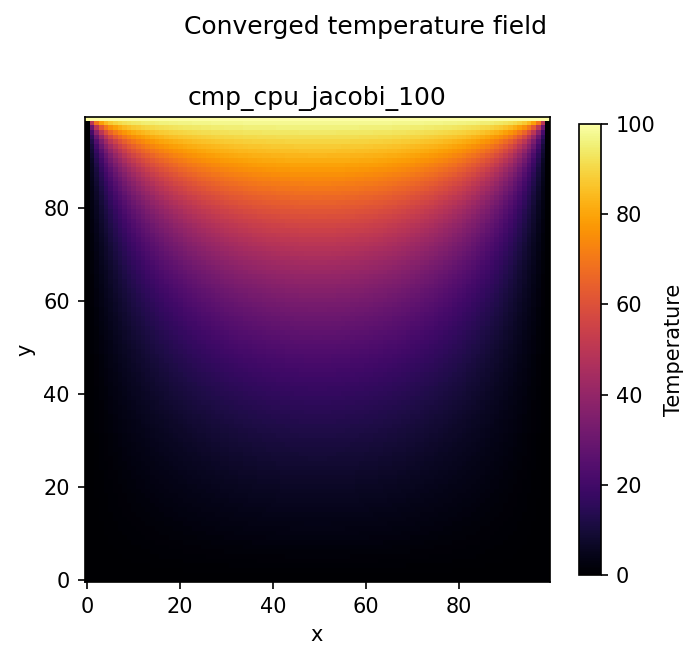
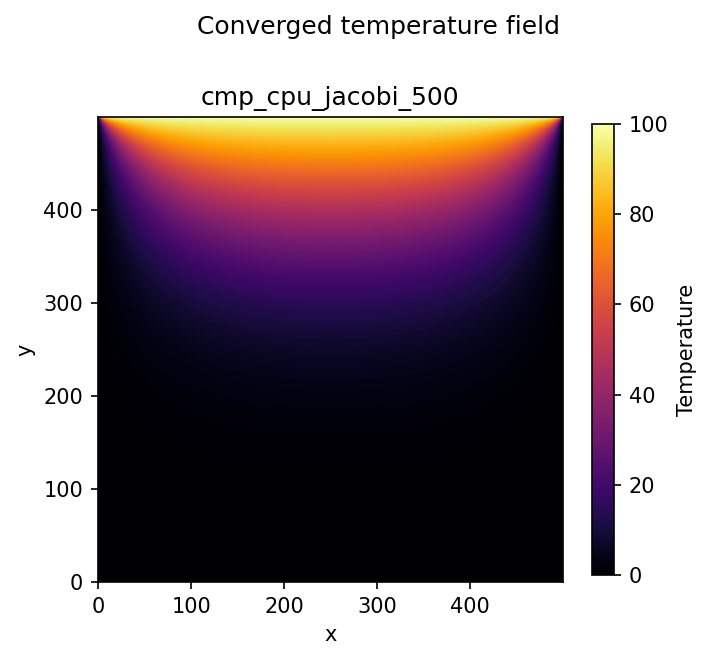
docs: complete README for feat/cuda-tdma
97 tests, 500x500 six-variant residency study with the honest GPU-TDMA
finding, six-panel field parity, refreshed scaling table (O(N^4)),
roadmap 5a/5b. Figures regenerated from a single coherent run; reproduce
steps corrected for the 500-grid thermals.

diff --git a/python/scripts/plot_walltime.py b/python/scripts/plot_walltime.py
@@ -46,17 +46,35 @@ def plot_scaling(df, out, title):
     print(df.pivot_table(index="grid_nx", columns="solver",
                          values="wall_time_ms").to_string(float_format=lambda v: f"{v:.1f}"))
 
+def variant_color(v):
+    # Hue = algorithm, shade = residency — read from the name so the plotter
+    # stays data-driven (no hardcoded variant list). "novram" is checked
+    # before "vram" since it contains it as a substring.
+    name = v.lower()
+    cmap = (plt.cm.Blues if "jacobi" in name
+            else plt.cm.Oranges if "tdma" in name
+            else plt.cm.Greys)
+    shade = 0.65 if "novram" in name else 0.85 if "vram" in name else 0.48
+    return cmap(shade)
+
+def variant_sort_key(v):
+    name = v.lower()
+    algo  = 0 if "jacobi" in name else 1                          # Jacobi block, then TDMA
+    resid = 1 if "novram" in name else 2 if "vram" in name else 0  # CPU < NoVram < Vram
+    return (algo, resid)
 
 def plot_comparison(df, out, title):
     grids = sorted(df["grid_n"].unique())
-    variants = list(dict.fromkeys(df["variant"]))   # preserve first-seen order
+    variants = sorted(dict.fromkeys(df["variant"]), key=variant_sort_key)
+    #variants = list(dict.fromkeys(df["variant"]))   # preserve first-seen order
     x = np.arange(len(grids))
     w = 0.8 / max(len(variants), 1)
     fig, ax = plt.subplots(figsize=(9.5, 5.5))
+
     for i, v in enumerate(variants):
         vals = [df[(df["variant"] == v) & (df["grid_n"] == g)]["wall_time_ms"].mean()
                 for g in grids]
-        bars = ax.bar(x + i * w - 0.4 + w / 2, vals, w, label=v)
+        bars = ax.bar(x + i * w - 0.4 + w / 2, vals, w, label=v, color=variant_color(v)) 
         for b, val in zip(bars, vals):
             if val == val:  # skip NaN
                 ax.text(b.get_x() + b.get_width() / 2, val, f"{val:.0f}",

diff --git a/README.md b/README.md
@@ -1,5 +1,5 @@
 [![physi-sim CI](https://github.com/william4812/physi-sim/actions/workflows/ci.yml/badge.svg)](https://github.com/william4812/physi-sim/actions/workflows/ci.yml)
-![Tests](https://img.shields.io/badge/tests-92%20passing-brightgreen)
+![Tests](https://img.shields.io/badge/tests-97%20passing-brightgreen)
 ![Language](https://img.shields.io/badge/language-C%2B%2B20%20%7C%20Fortran%2090%20%7C%20CUDA%2013.2%20%7C%20Python%203-blue)
 
 # physi-sim — HPC Thermal Solver
@@ -9,9 +9,12 @@ GTX 1650 (sm_75, 16 SMs) · TDD · CI/CD · CMakePresets
 
 Implements a modular `ISolver` interface with FSM-managed lifecycle, concurrent
 dispatch, and a Fortran physics kernel pipeline. GPU acceleration via CUDA Jacobi
-with per-step residual history and a `ProfilingHarness`. With buffers kept
-**resident in VRAM** across the solve loop, the GPU solver now runs **~2.5×
-faster than the CPU** at 100×100 — see §6.
+and CUDA TDMA solvers, each with residual history and a `ProfilingHarness`. Kept
+**resident in VRAM** across the solve loop, the GPU Jacobi solver runs **~11×
+faster than the CPU** at 500×500 — while the GPU TDMA solver, profiled honestly,
+**loses** to the CPU because its line-serial structure starves the device. The
+result is a controlled study of *when* GPU acceleration helps and when it does
+not — see §6.
 
 ---
 
@@ -22,8 +25,8 @@ faster than the CPU** at 100×100 — see §6.
 3. [Physics verification](#3-physics-verification)
 4. [Algorithm comparison — Jacobi vs TDMA](#4-algorithm-comparison--jacobi-vs-tdma)
 5. [GPU profiling — the PCIe wall](#5-gpu-profiling--the-pcie-wall)
-6. [VRAM residency — beating the CPU](#6-vram-residency--beating-the-cpu)
-7. [Test suite — 92 passing](#7-test-suite--92-passing)
+6. [VRAM residency, parallelism, and the limits of acceleration](#6-vram-residency-parallelism-and-the-limits-of-acceleration)
+7. [Test suite — 97 passing](#7-test-suite--97-passing)
 8. [Build and reproduce results](#8-build-and-reproduce-results)
 9. [Roadmap and physics vision](#9-roadmap-and-physics-vision)
 
@@ -41,7 +44,8 @@ physics. CUDA owns GPU compute. Python owns analytics.
 │  ISolver (interface: step · residual · name · history)           │
 │    ├── JacobiCPU          — Jacobi 5-point stencil (Fortran)    │
 │    ├── TDMACPU            — Thomas algorithm line sweep          │
-│    └── CudaJacobiSolver   — CUDA sm_75, 16×16 blocks  ✅        │
+│    ├── CudaJacobiSolver   — CUDA sm_75, 16×16 blocks  ✅        │
+│    └── CudaTDMASolver     — CUDA batched line-Jacobi  ✅        │
 │                                                                  │
 │  SolverFactory    — registry, HardwareBackend, parse CLI        │
 │  SolverFSM        — atomic<SolverState>, throws on bad trans.   │
@@ -62,6 +66,7 @@ physics. CUDA owns GPU compute. Python owns analytics.
 │  CUDA layer — GPU compute (src/cuda/)                            │
 │                                                                  │
 │  jacobi_kernel        — 16×16 thread blocks, sm_75              │
+│  tdma_sweep_kernel    — one thread per row, serial Thomas        │
 │  copy_boundary_kernel — halo preservation                        │
 │  AbsDiff + thrust::max_element — L∞ residual reduction          │
 │  VRAM-resident buffers — field stays on device across the loop  │
@@ -129,25 +134,26 @@ BenchmarkState::INIT → RUNNING → WRITING → DONE
 
 <p align="center">
   <img src="docs/figures/thermal_field.png" width="520px"><br>
-  <b>Figure 1 — Converged 100×100 temperature field (JacobiCPU).</b>
+  <b>Figure 1 — Converged 500×500 temperature field (JacobiCPU).</b>
   Hot top edge (T = 100) diffusing into a cold interior — the expected
   steady-state harmonic profile.
 </p>
 
-All four solver variants — JacobiCPU, TDMACPU, GPU (per-step), and GPU
-(VRAM-resident) — converge to the same field. Side by side they are visually
-indistinguishable:
+All six solver variants — JacobiCPU, TDMACPU, and the GPU Jacobi and GPU TDMA
+solvers each in per-step and VRAM-resident form — converge to the same field.
+Side by side they are visually indistinguishable:
 
 <p align="center">
-  <img src="docs/figures/thermal_compare_100.png" width="900px"><br>
-  <b>Figure 2 — Field parity across all four variants (100×100).</b>
-  Differences sit at the level of floating-point reordering across 10⁴ parallel
+  <img src="docs/figures/thermal_compare_500.png" width="1100px"><br>
+  <b>Figure 2 — Field parity across all six variants (500×500).</b>
+  Differences sit at the level of floating-point reordering across parallel
   threads — orders of magnitude below the convergence tolerance.
 </p>
 
 Parity is enforced in CI by the comparison-variant tests
 (`FieldMatchesCPUJacobiAfterConvergence`, tol = 5×10⁻⁴): a backend that drifts
-from the CPU Jacobi reference fails the build.
+from the CPU Jacobi reference fails the build. The GPU TDMA solver added in
+Phase 5 reaches the same field, locked by `CudaTDMASolverTest.FieldMatchesCPUTDMA`.
 
 ---
 
@@ -201,51 +207,80 @@ That per-iteration PCIe traffic, not the kernel, dominates:
 
 | Grid | JacobiCPU | JacobiGPU (per-step) | TDMACPU |
 |------|-----------|----------------------|---------|
-| 50×50 | 45 ms | 787 ms | 48 ms |
-| 100×100 | 387 ms | 2,660 ms | 663 ms |
-| 200×200 | 5,375 ms | 19,095 ms | 9,315 ms |
+| 50×50 | 19 ms | 663 ms | 38 ms |
+| 100×100 | 277 ms | 2,351 ms | 532 ms |
+| 200×200 | 4,272 ms | 13,091 ms | 8,648 ms |
 
 <sub>GTX 1650, single run; absolute timings vary run-to-run, the ordering does not.</sub>
 
 The kernel itself is trivially cheap; each iteration's cost is the round trip
-over a ~16 GB/s bus. CPU and GPU wall time both scale as O(N²) — the cost tracks
-**data moved**, not arithmetic done. That is the bottleneck Phase 4 removes.
+over a ~16 GB/s bus. Wall time climbs steeply — roughly O(N⁴), since Jacobi takes
+O(N²) iterations (5,064 → 17,887 → 61,074) each doing O(N²) work — yet the GPU
+curve runs a fixed factor *above* the CPU in lockstep on the log-log plot: that
+gap is the per-iteration PCIe round trip, not arithmetic. Phase 4 removes it.
 
 ---
 
-## 6. VRAM residency — beating the CPU
+## 6. VRAM residency, parallelism, and the limits of acceleration
 
-The fix is structural, not numerical: upload the field to the device **once**,
-iterate entirely in VRAM, and download **once** at the end. PCIe is paid twice
-per solve instead of twice per iteration. A controlled comparison at 100×100
-(all four variants, identical problem) shows the result:
+The PCIe wall in §5 is structural, not numerical: copying the field host↔device
+every iteration costs more than the kernel. The fix is to own the device
+buffer's lifetime — upload **once**, iterate entirely in VRAM, download
+**once** — so PCIe is paid twice per *solve* instead of twice per *iteration*.
+The controlled comparison below runs all six variants on the identical 500×500
+problem to the same tolerance, isolating two independent axes: which algorithm
+runs, and where its data lives.
 
 <p align="center">
-  <img src="docs/figures/wall_time_residency.png" width="720px"><br>
-  <b>Figure 5 — Wall time by variant, 100×100 controlled comparison.</b>
+  <img src="docs/figures/wall_time_residency.png" width="820px"><br>
+  <b>Figure 5 — Wall time by variant, 500×500 controlled comparison (log scale).</b><br>
+  Hue = algorithm (blue Jacobi, orange TDMA); shade = residency (light CPU,
+  medium GPU-per-iteration, dark GPU-resident). Read each color block left to right.
 </p>
 
-| Variant (100×100) | Wall time | vs CPU Jacobi |
-|-------------------|-----------|---------------|
-| **JacobiGPU — VRAM-resident** | **63 ms** | **2.5× faster** |
-| JacobiCPU | 155 ms | 1× baseline |
-| TDMACPU | 357 ms | 2.3× slower |
-| JacobiGPU — per-step (NoVram) | 1,032 ms | 6.7× slower |
+| Variant (500×500) | Wall time | vs CPU baseline |
+|-------------------|-----------|-----------------|
+| JacobiCPU | 22,499 ms | 1× (Jacobi baseline) |
+| JacobiGPU — per-step (NoVram) | 35,744 ms | 1.6× slower than CPU Jacobi |
+| **JacobiGPU — VRAM-resident** | **1,995 ms** | **11.3× faster than CPU Jacobi** |
+| TDMACPU | 68,957 ms | 1× (TDMA baseline) |
+| TDMAGPU — per-step (NoVram) | 158,708 ms | 2.3× slower than CPU TDMA |
+| TDMAGPU — VRAM-resident | 102,297 ms | 1.5× slower than CPU TDMA |
 
-Keeping the buffer resident makes the GPU solver **the fastest variant — ~2.5×
-faster than the CPU, and ~16× faster than the same kernel paying PCIe every
-iteration.** The field is bit-for-bit consistent with every other variant
-(Figure 2), so the speedup is free of any accuracy cost.
+<sub>GTX 1650, single run; absolute timings vary run-to-run (~±20%, thermal
+throttling), the ordering does not.</sub>
 
-This realises the **VRAM-resident** milestone (roadmap phase 4): the PCIe wall in
-§5 was an architecture problem, and owning the device buffer's lifetime is the
-architecture answer.
+**Jacobi (blue).** Holding algorithm and hardware fixed and changing only
+residency, the GPU goes from 35.7 s (copying every iteration — *slower* than the
+22.5 s CPU) to **2.0 s resident**: a **17.9× collapse from data movement alone**,
+and **11.3× under the CPU**. Same kernel, same silicon; only the data path changed.
+
+**TDMA (orange).** Residency helps here too (159 s → 102 s) but never drops the
+bar below the CPU's 69 s. TDMA's line-by-line Thomas sweep is *sequential within
+each row* — its only parallelism is across rows, ~500 independent threads on a
+device built for thousands — so the GPU runs at a few percent of capacity no
+matter how the data is staged.
+
+The fastest of all six is the *least* sophisticated algorithm (Jacobi) on the GPU
+with a disciplined data path; the *most* numerically efficient one (TDMA, which
+converges in 3.69× fewer iterations — §4) is the **slowest**, because its serial
+structure starves the hardware. This is the central HPC lesson the project was
+built to demonstrate: **acceleration follows the parallel structure of the
+algorithm and the discipline of the data path — not the choice of chip.** The
+fields are bit-for-bit identical across all variants (Figure 2), so every timing
+difference is pure hardware/algorithm fit, free of any accuracy cost.
+
+Closing the GPU-TDMA gap is not a coding problem but an algorithmic one: the
+Thomas recurrence has an O(N) critical-path *depth* per line, so the device's
+parallelism has nothing to chew on. The structural fix is parallel cyclic
+reduction — O(log N) depth at the cost of more total work — tracked as roadmap
+**Phase 5b**.
 
 ---
 
-## 7. Test suite — 92 passing
+## 7. Test suite — 97 passing
 
-92 tests across three independent layers; the full suite runs in ~10 s.
+97 tests across three independent layers; the full suite runs in ~11 s.
 
 ```
 tests/
@@ -259,7 +294,8 @@ tests/
 │   ├── test_comparison_variants.cpp     cross-variant field parity
 │   ├── test_residual_history_csv.cpp    per-step history → CSV
 │   ├── test_residual_and_convergence.cpp  residual math + stopping
-│   └── test_cuda_jacobi_solver.cpp      CudaJacobiSolver (GPU; CUDA build only)
+│   ├── test_cuda_jacobi_solver.cpp      CudaJacobiSolver (GPU; CUDA build only)
+│   └── test_cuda_tdma_solver.cpp        CudaTDMASolver (GPU; CUDA build only)
 ├── integration/
 │   ├── test_fortran_interop.cpp         C++ ↔ Fortran ABI bridge
 │   ├── test_profiling_harness.cpp       ProfilingHarness + normalized residual
@@ -274,7 +310,7 @@ tests/
 | integration | a component seam broke |
 | regression | the physics drifted |
 
-GPU tests (`CudaJacobiSolverTest.*`) call `GTEST_SKIP()` when no CUDA device is
+The CUDA test suites (`Cuda*SolverTest.*`) call `GTEST_SKIP()` when no GPU is
 present, so CI stays green on CPU-only runners while still compiling the CUDA
 path.
 
@@ -309,12 +345,23 @@ ctest --preset hpc-debug
 ```bash
 cd build
 
-# Runs the grid sweep + the 100×100 four-variant comparison,
-# writing profiling CSVs, convergence CSVs, cmp_*.vtk and cmp_timing.csv
+# Grid sweep (50/100/200) + the 500×500 six-variant comparison, writing
+# profiling CSVs, convergence CSVs, cmp_*.vtk and cmp_timing.csv
 ./physi_sim
 
-# Build all five README figures in one command
+# Convergence + wall-time scaling + the 500×500 residency bar. make_figures reads
+# the sweep grids; the residency bar auto-reads the six variants from cmp_timing.csv.
 python3 ../python/scripts/make_figures.py --data . --out ../docs/figures --grid 100 --tol 1e-7
+
+# Field + six-panel parity at the comparison grid (500). The comparison runs at 500,
+# so these come straight from cmp_*_500.vtk rather than through make_figures.
+python3 ../python/scripts/plot_thermal_map.py cmp_cpu_jacobi_500.vtk \
+    --out ../docs/figures/thermal_field.png
+python3 ../python/scripts/plot_thermal_map.py \
+    cmp_cpu_jacobi_500.vtk:"Jacobi CPU" cmp_cpu_tdma_500.vtk:"TDMA CPU" \
+    cmp_gpu_jacobi_novram_500.vtk:"Jacobi GPU NoVram" cmp_gpu_jacobi_vram_500.vtk:"Jacobi GPU Vram" \
+    cmp_gpu_tdma_novram_500.vtk:"TDMA GPU NoVram" cmp_gpu_tdma_vram_500.vtk:"TDMA GPU Vram" \
+    --out ../docs/figures/thermal_compare_500.png
 ```
 
 `make_figures.py` skips any figure whose inputs are missing, so a partial
@@ -336,7 +383,8 @@ without recompiling.
 | 2 | `feat/cuda-jacobi` | CudaJacobiSolver — GPU tests, benchmarks | ✅ |
 | 3 | `feat/benchmark-driver` | CMakePresets, JSON config, FSM driver, figures | ✅ |
 | 4 | `feat/phase2-vram-resident` | VRAM-resident buffers — GPU beats CPU (§6) | ✅ |
-| 5 | `feat/cuda-tdma` | CudaTDMASolver — inter-line parallel Thomas | 🔲 |
+| 5a | `feat/cuda-tdma` | CudaTDMASolver — batched per-line Thomas (line-Jacobi), profiled vs CPU | ✅ |
+| 5b | `feat/cuda-tdma` | Parallel cyclic reduction (PCR) — intra-line parallelism, O(log N) depth | 🔲 |
 | 6 | `feat/shared-memory-tiling` | Jacobi shared-memory halo exchange | 🔲 |
 | 7 | `feat/3d-physics` | 3D ADI conduction, Navier–Stokes FVM, P1 radiation | 🔲 |
 | 8 | `feat/multiscale-bridge` | MesoBoltzmannSolver, Kn-based ScaleManager | 🔲 |
